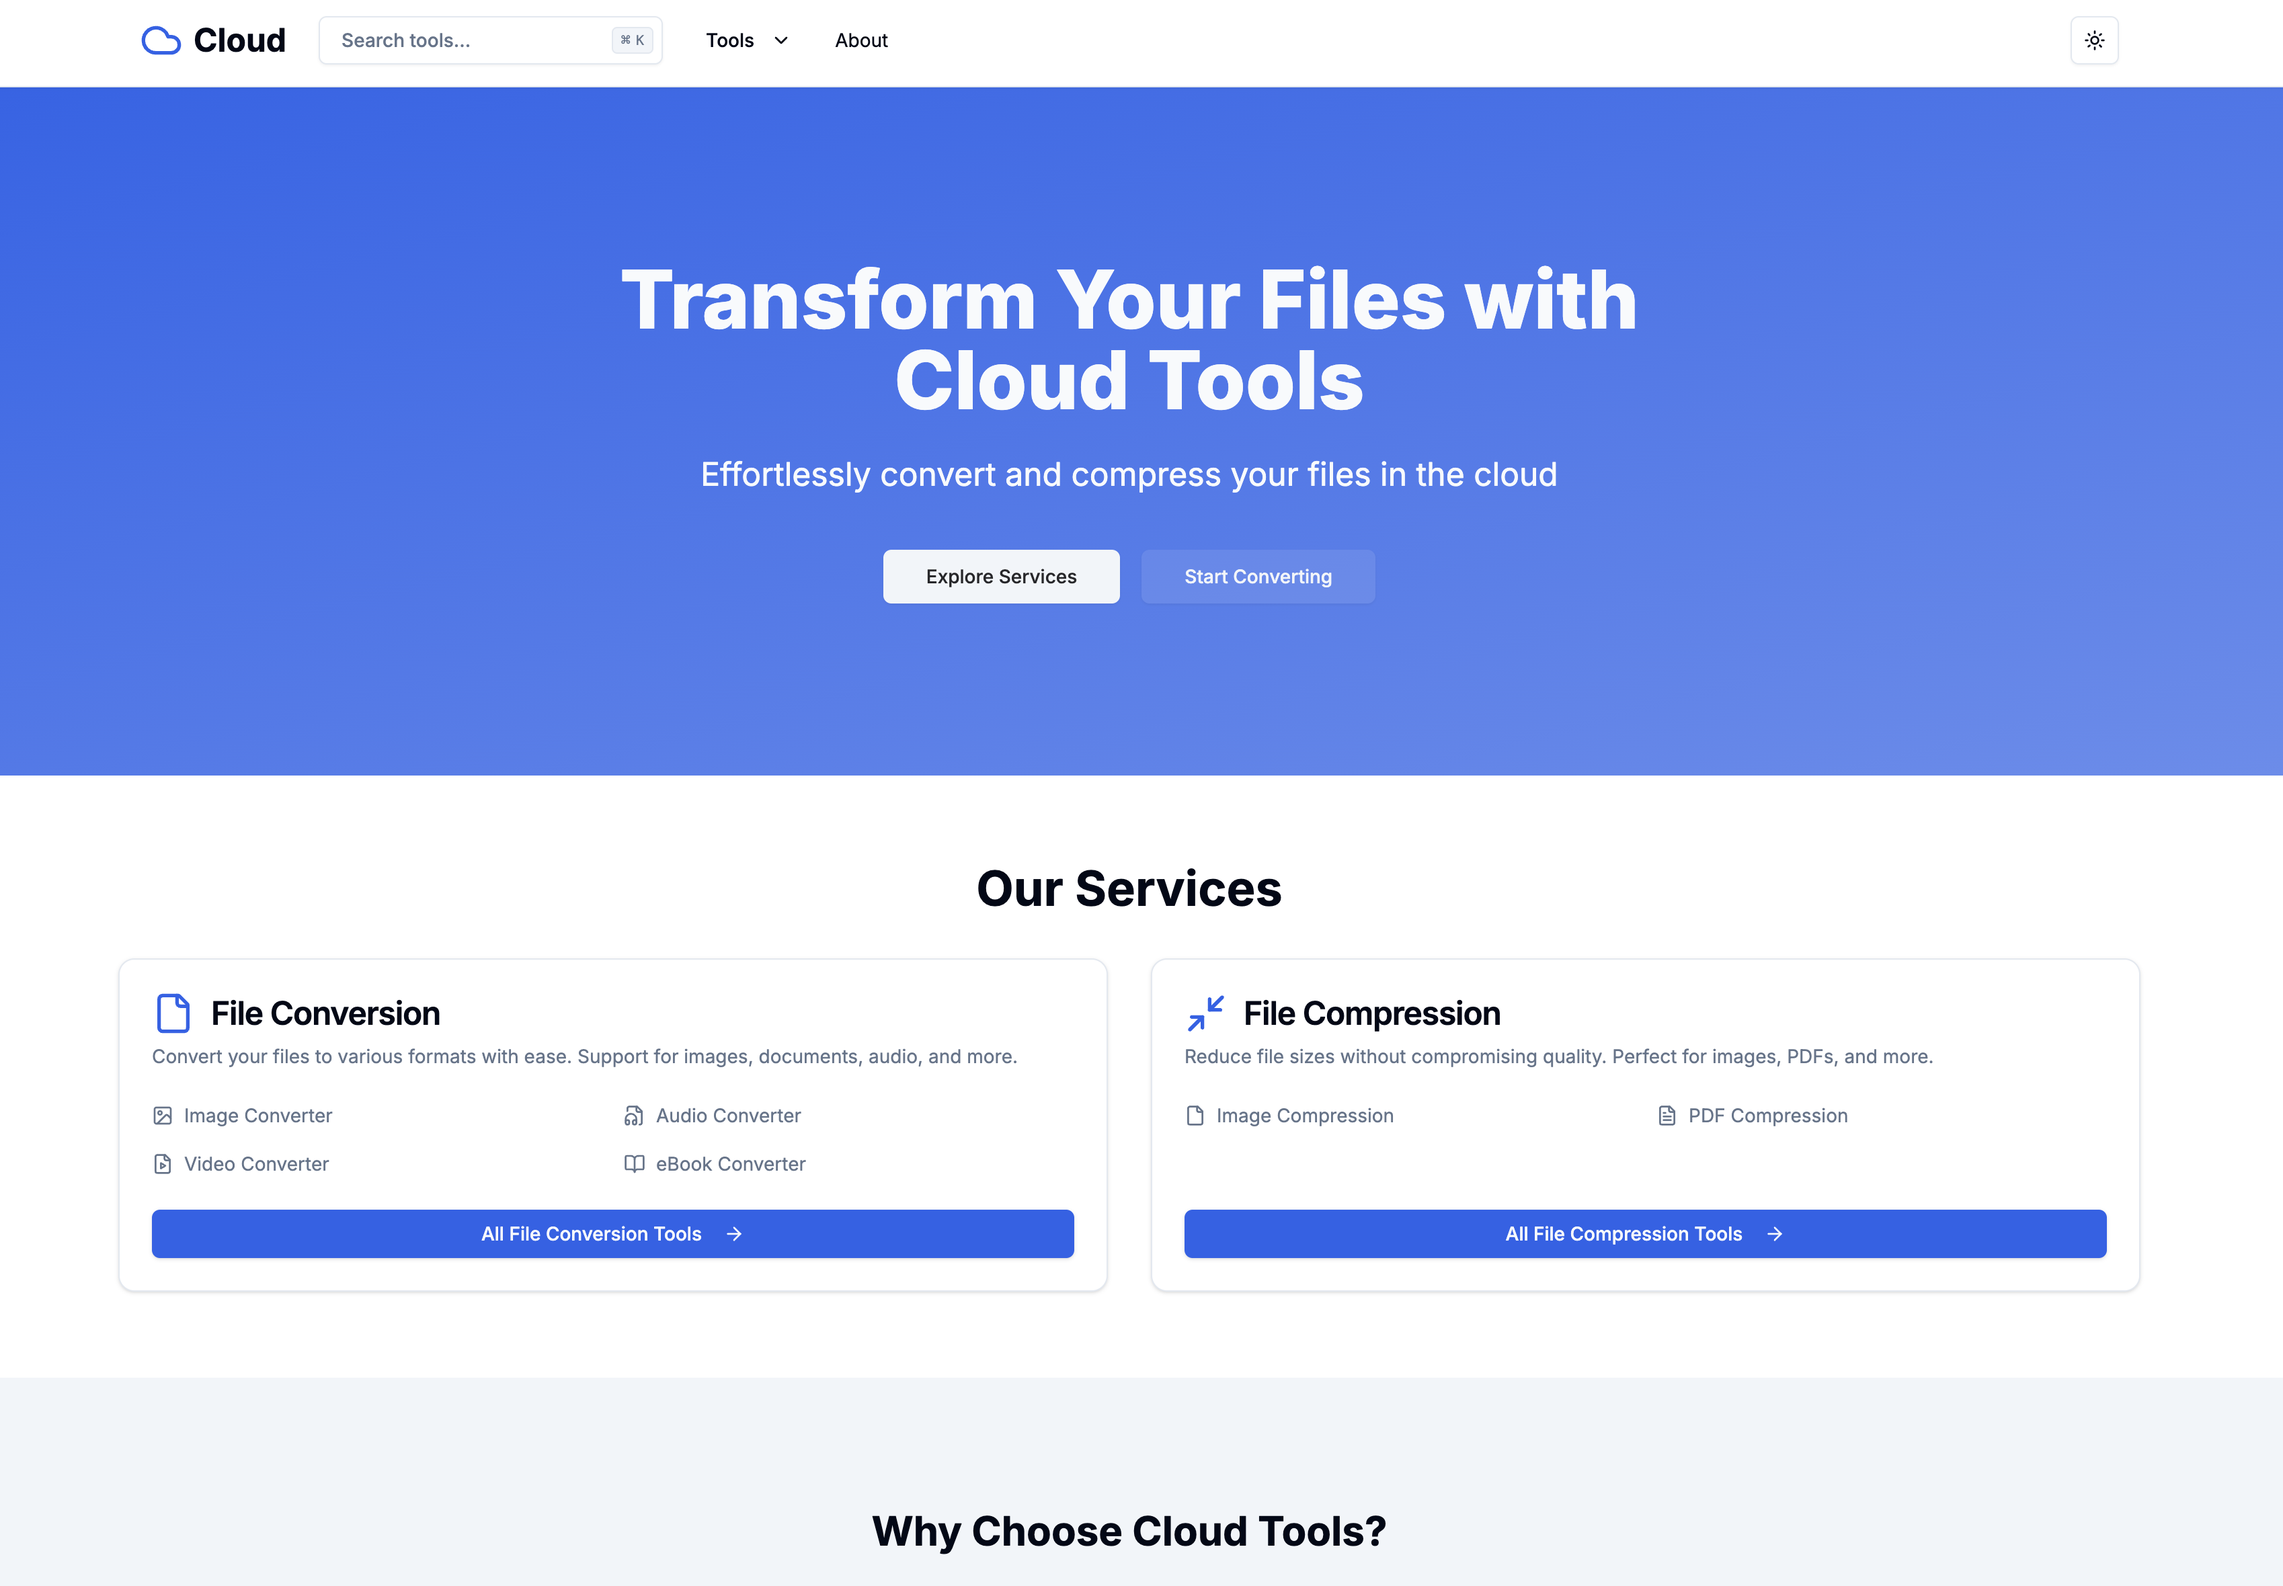
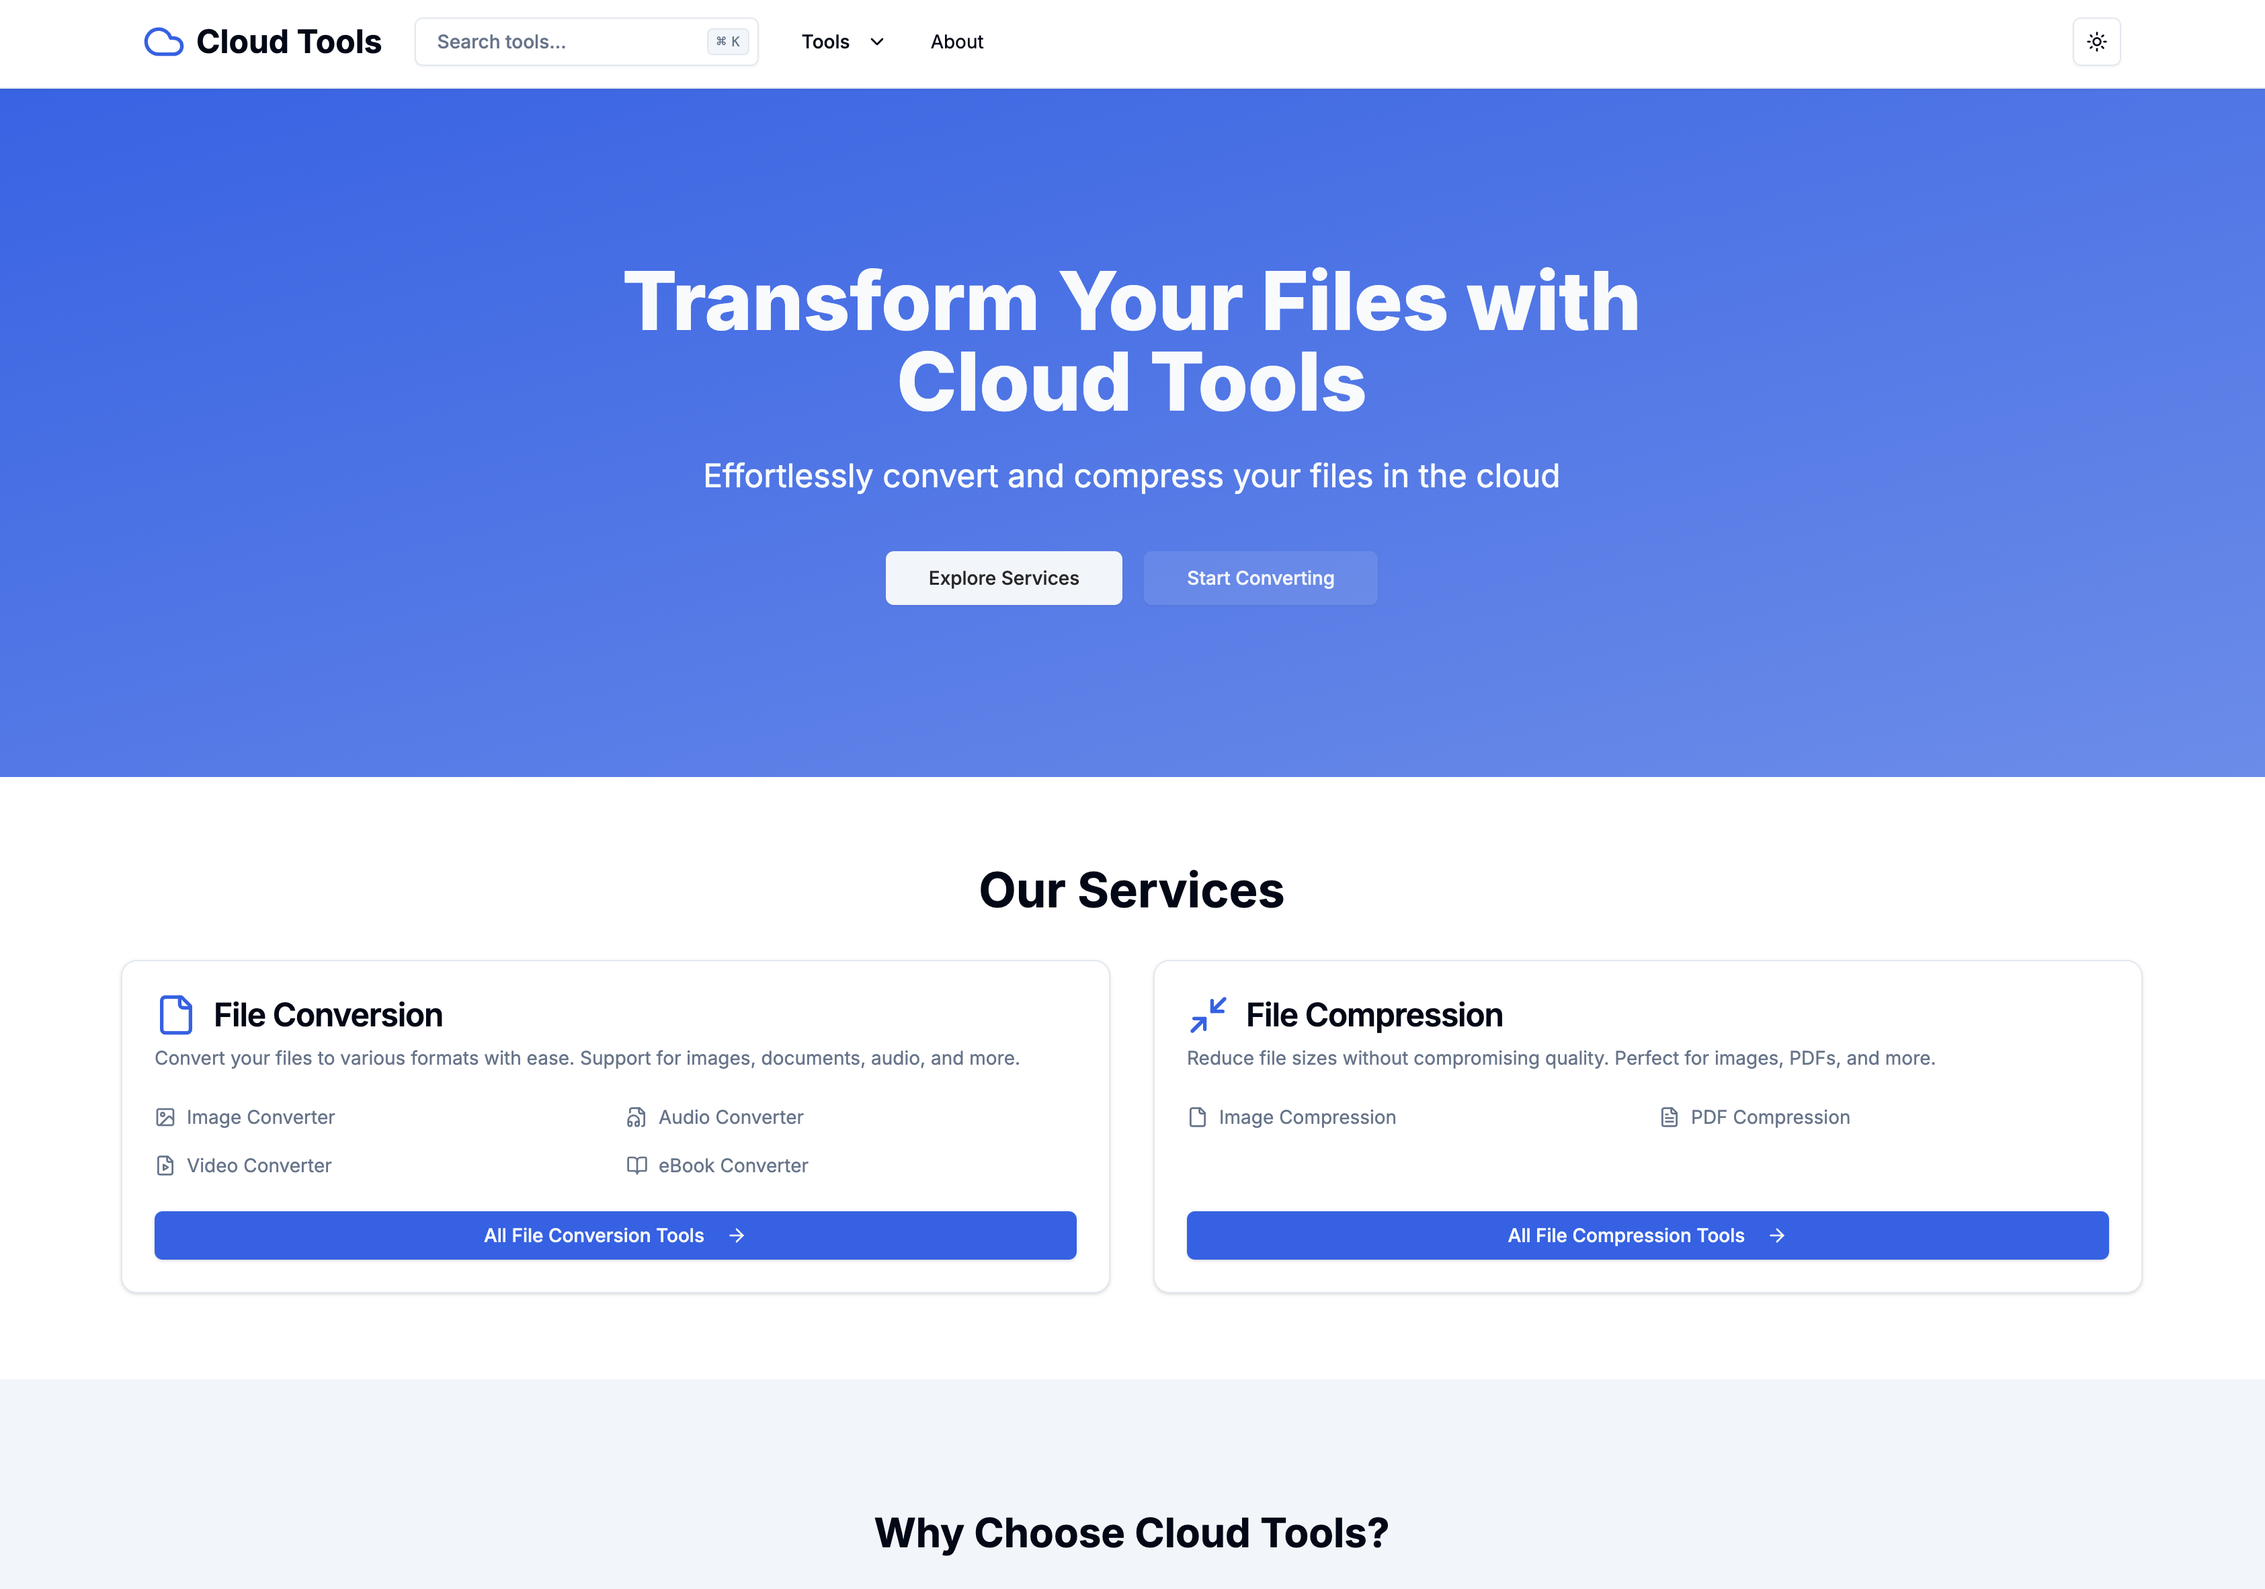
Rename 'Cloud' to 'Cloud Tools' in README.md for clarity.
Updated all references of 'Cloud' to 'Cloud Tools' to ensure consistency and better reflect the purpose of the service. Minor formatting adjustments were also made for improved readability.

diff --git a/README.md b/README.md
@@ -1,4 +1,4 @@
-# Cloud
+# Cloud Tools
 
 ![Next.js](https://img.shields.io/badge/-Next.js-000000?style=flat-square&logo=next.js&logoColor=white)
 ![TypeScript](https://img.shields.io/badge/-TypeScript-007ACC?style=flat-square&logo=typescript&logoColor=white)
@@ -7,9 +7,9 @@
 
 ![preview](./preview.png)
 
-_Cloud_ is a AWS cloud-based service that provides users with a platform to convert or compress files.
+_Cloud Tools_ is a AWS cloud-based service that provides users with a platform to convert or compress files.
 
-## Why Did I Build _Cloud_?
+## Why Did I Build _Cloud Tools_?
 
 In preparation for the [AWS Solutions Architect Associate](https://aws.amazon.com/certification/certified-solutions-architect-associate/?ch=sec&sec=rmg&d=1) exam, I sought to apply my Amazon AWS knowledge to a real-world project. This endeavor not only reinforces my understanding of AWS services but also provides a tangible showcase of my skills in designing and implementing cloud-based solutions. By building _Cloud_, I can demonstrate my ability to architect a scalable, efficient, and secure system, highlighting the practical application of the concepts I've learned.
 
@@ -39,7 +39,7 @@ graph TD;
         H --> J[SQS for Processing Queue]
         J --> H
     end
-    
+
     subgraph Monitoring
         E --> K[CloudWatch for Logs & Metrics]
         F --> K
@@ -61,7 +61,7 @@ graph TD;
 
 2. **Backend**:
    - **API Gateway**: Acts as the entry point for API requests from the frontend. It routes requests to appropriate Lambda functions.
-   - **Lambda Functions**: 
+   - **Lambda Functions**:
      - **Convert Files**: Handles file conversion tasks.
      - **Compress Files**: Handles file compression tasks.
 
